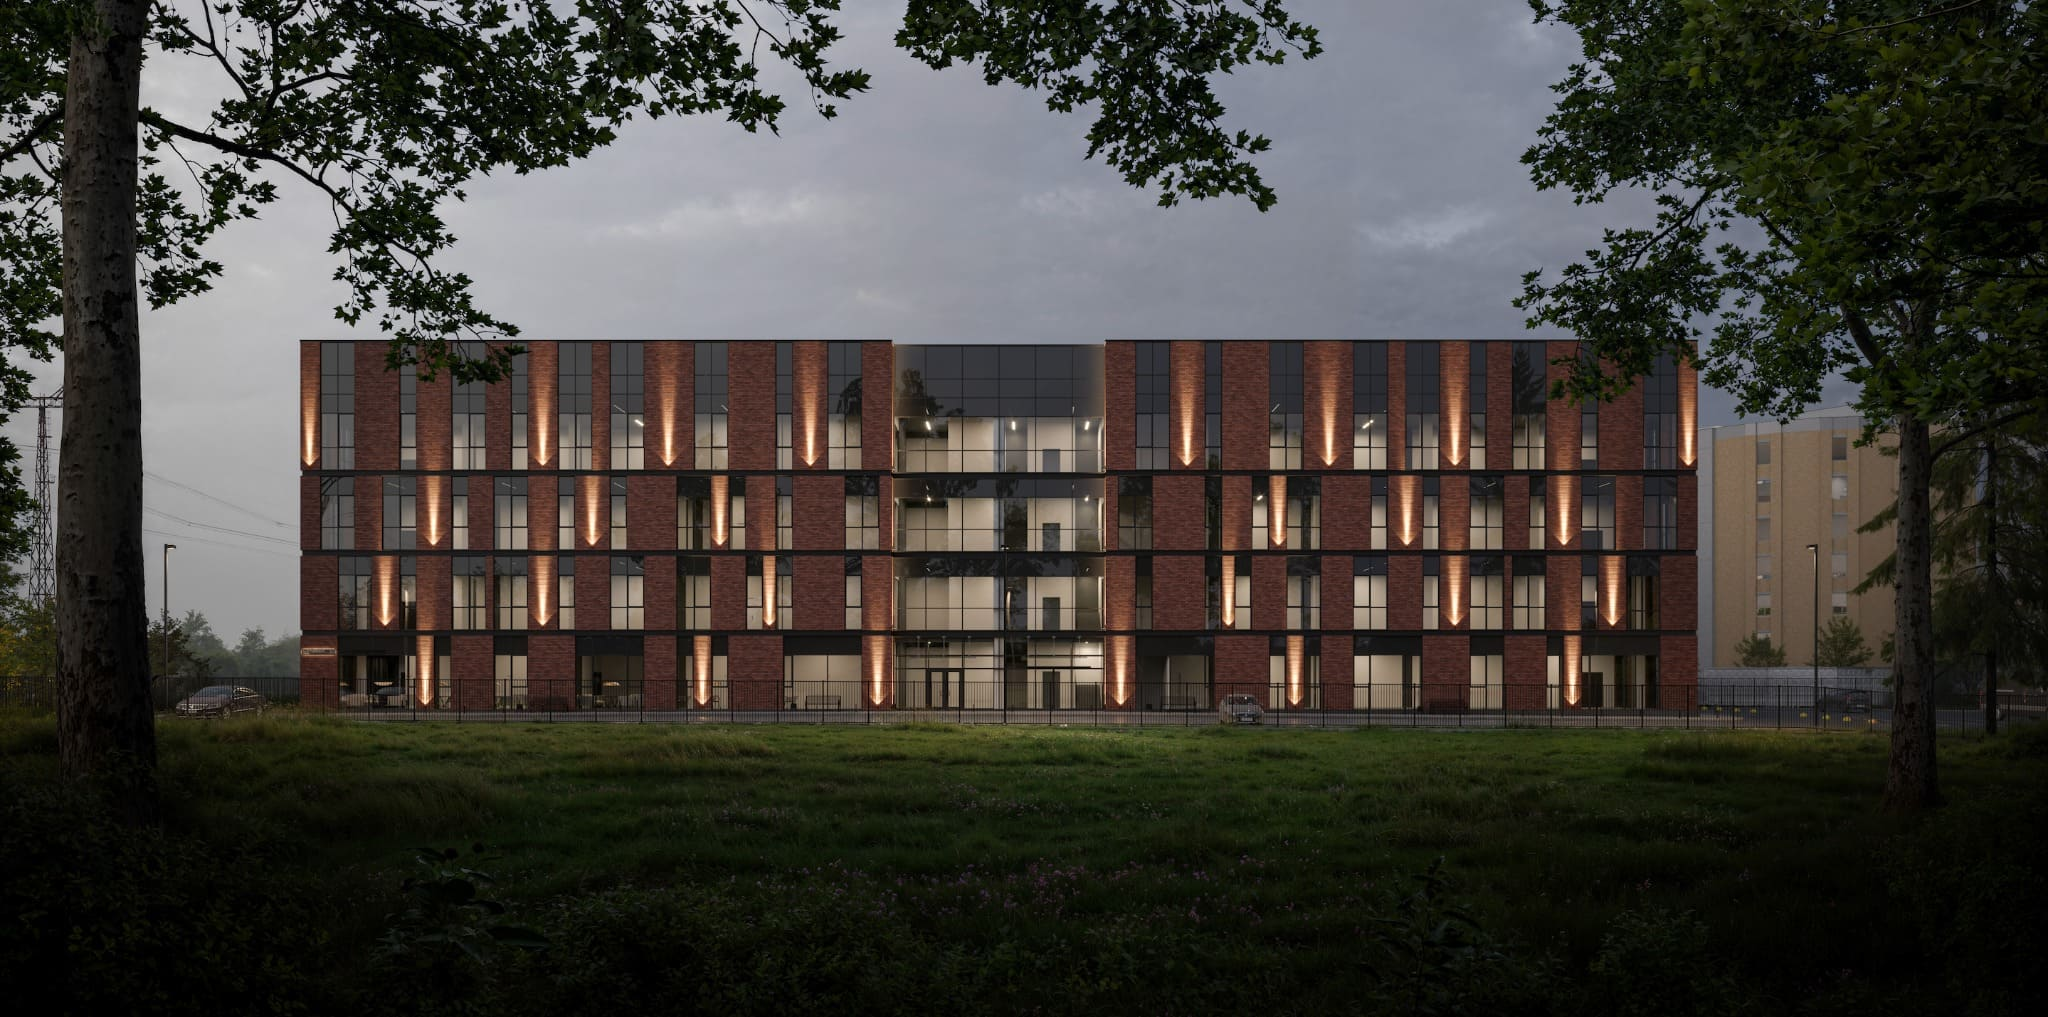
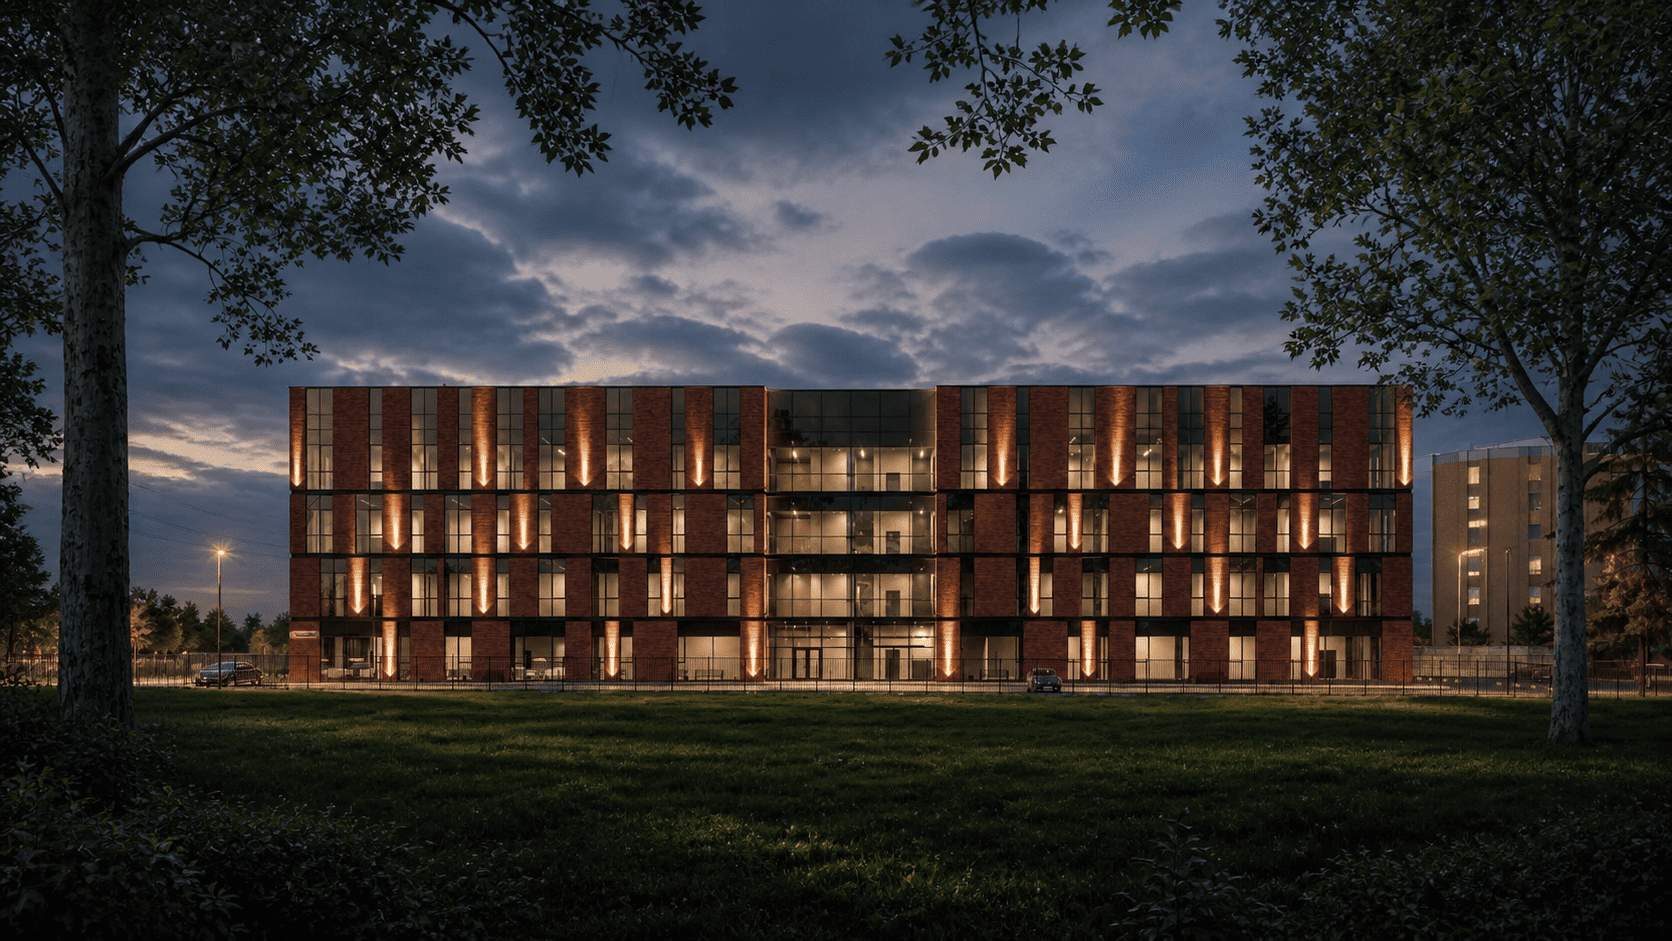
Update object images and hero overlay

diff --git a/style.css b/style.css
@@ -404,8 +404,8 @@ body[data-page="object"] .site-header {
   z-index: 1;
   pointer-events: none;
   background:
-    linear-gradient(90deg, rgba(3, 8, 20, 0.70) 0%, rgba(3, 8, 20, 0.37) 46%, rgba(3, 8, 20, 0.66) 100%),
-    linear-gradient(180deg, rgba(3, 8, 20, 0.10) 0%, rgba(3, 8, 20, 0.66) 100%);
+    linear-gradient(90deg, rgba(3, 8, 20, 0.46) 0%, rgba(3, 8, 20, 0.24) 46%, rgba(3, 8, 20, 0.43) 100%),
+    linear-gradient(180deg, rgba(3, 8, 20, 0.07) 0%, rgba(3, 8, 20, 0.43) 100%);
 }
 
 .hero-media,
